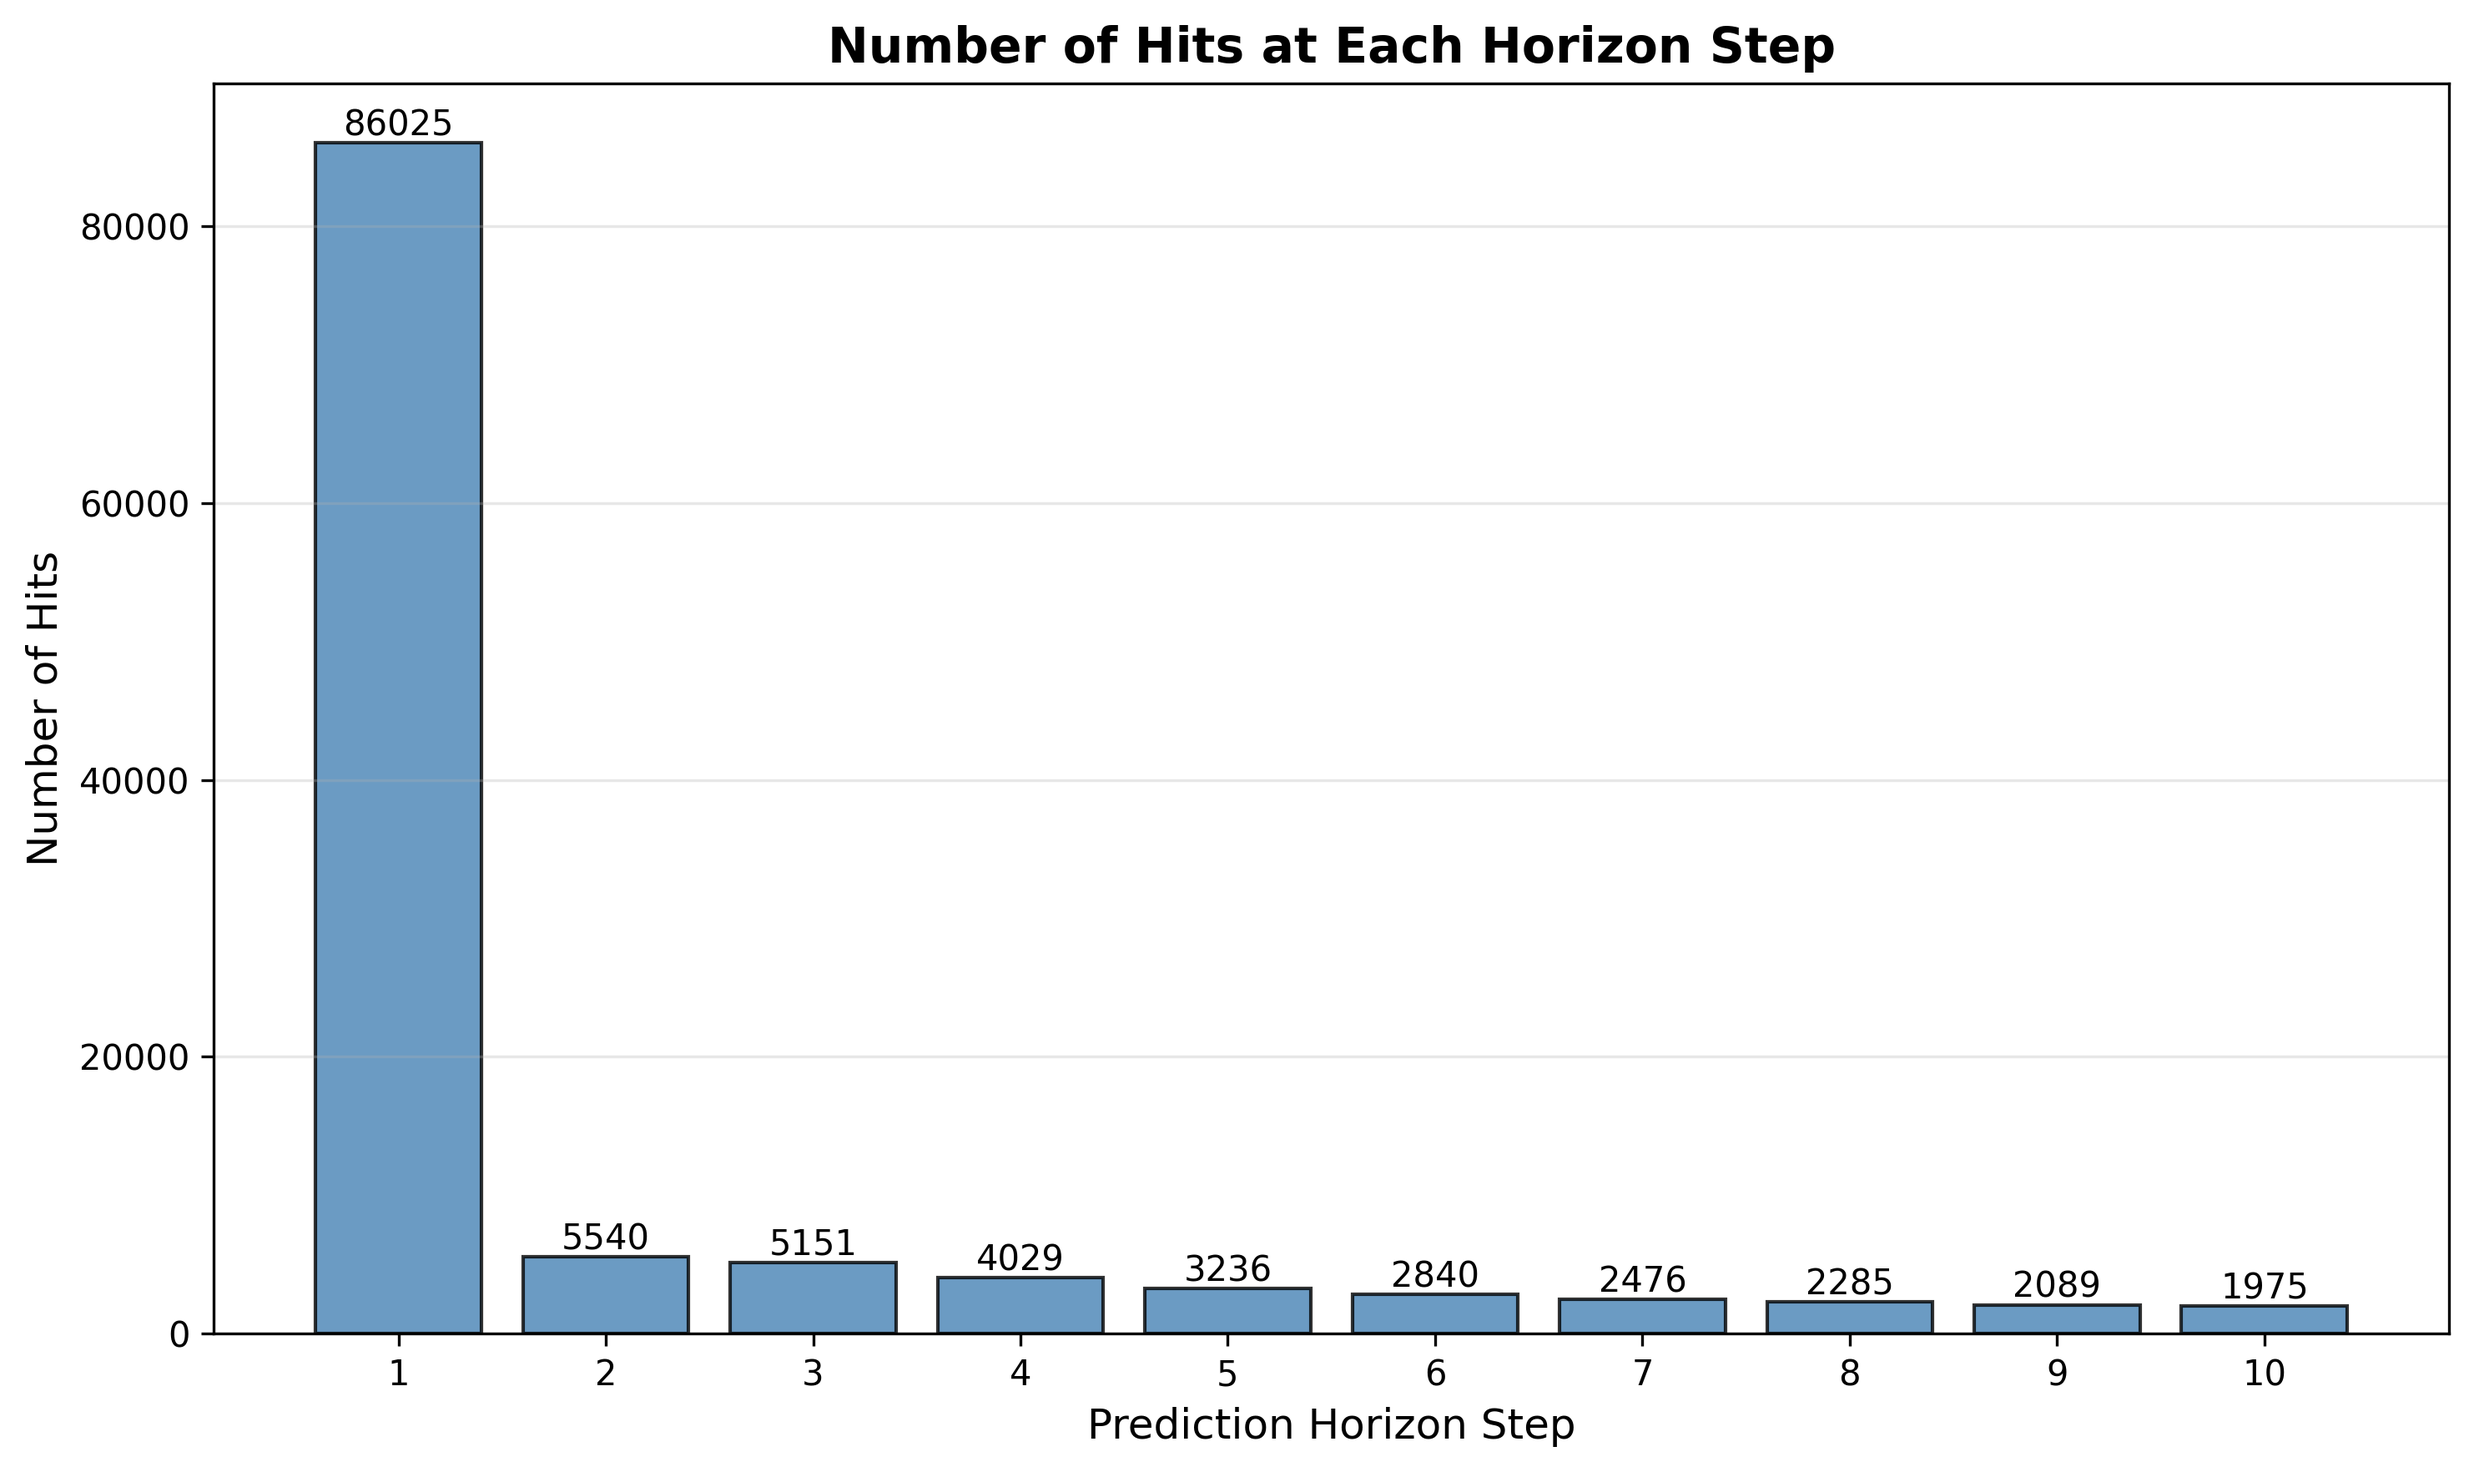
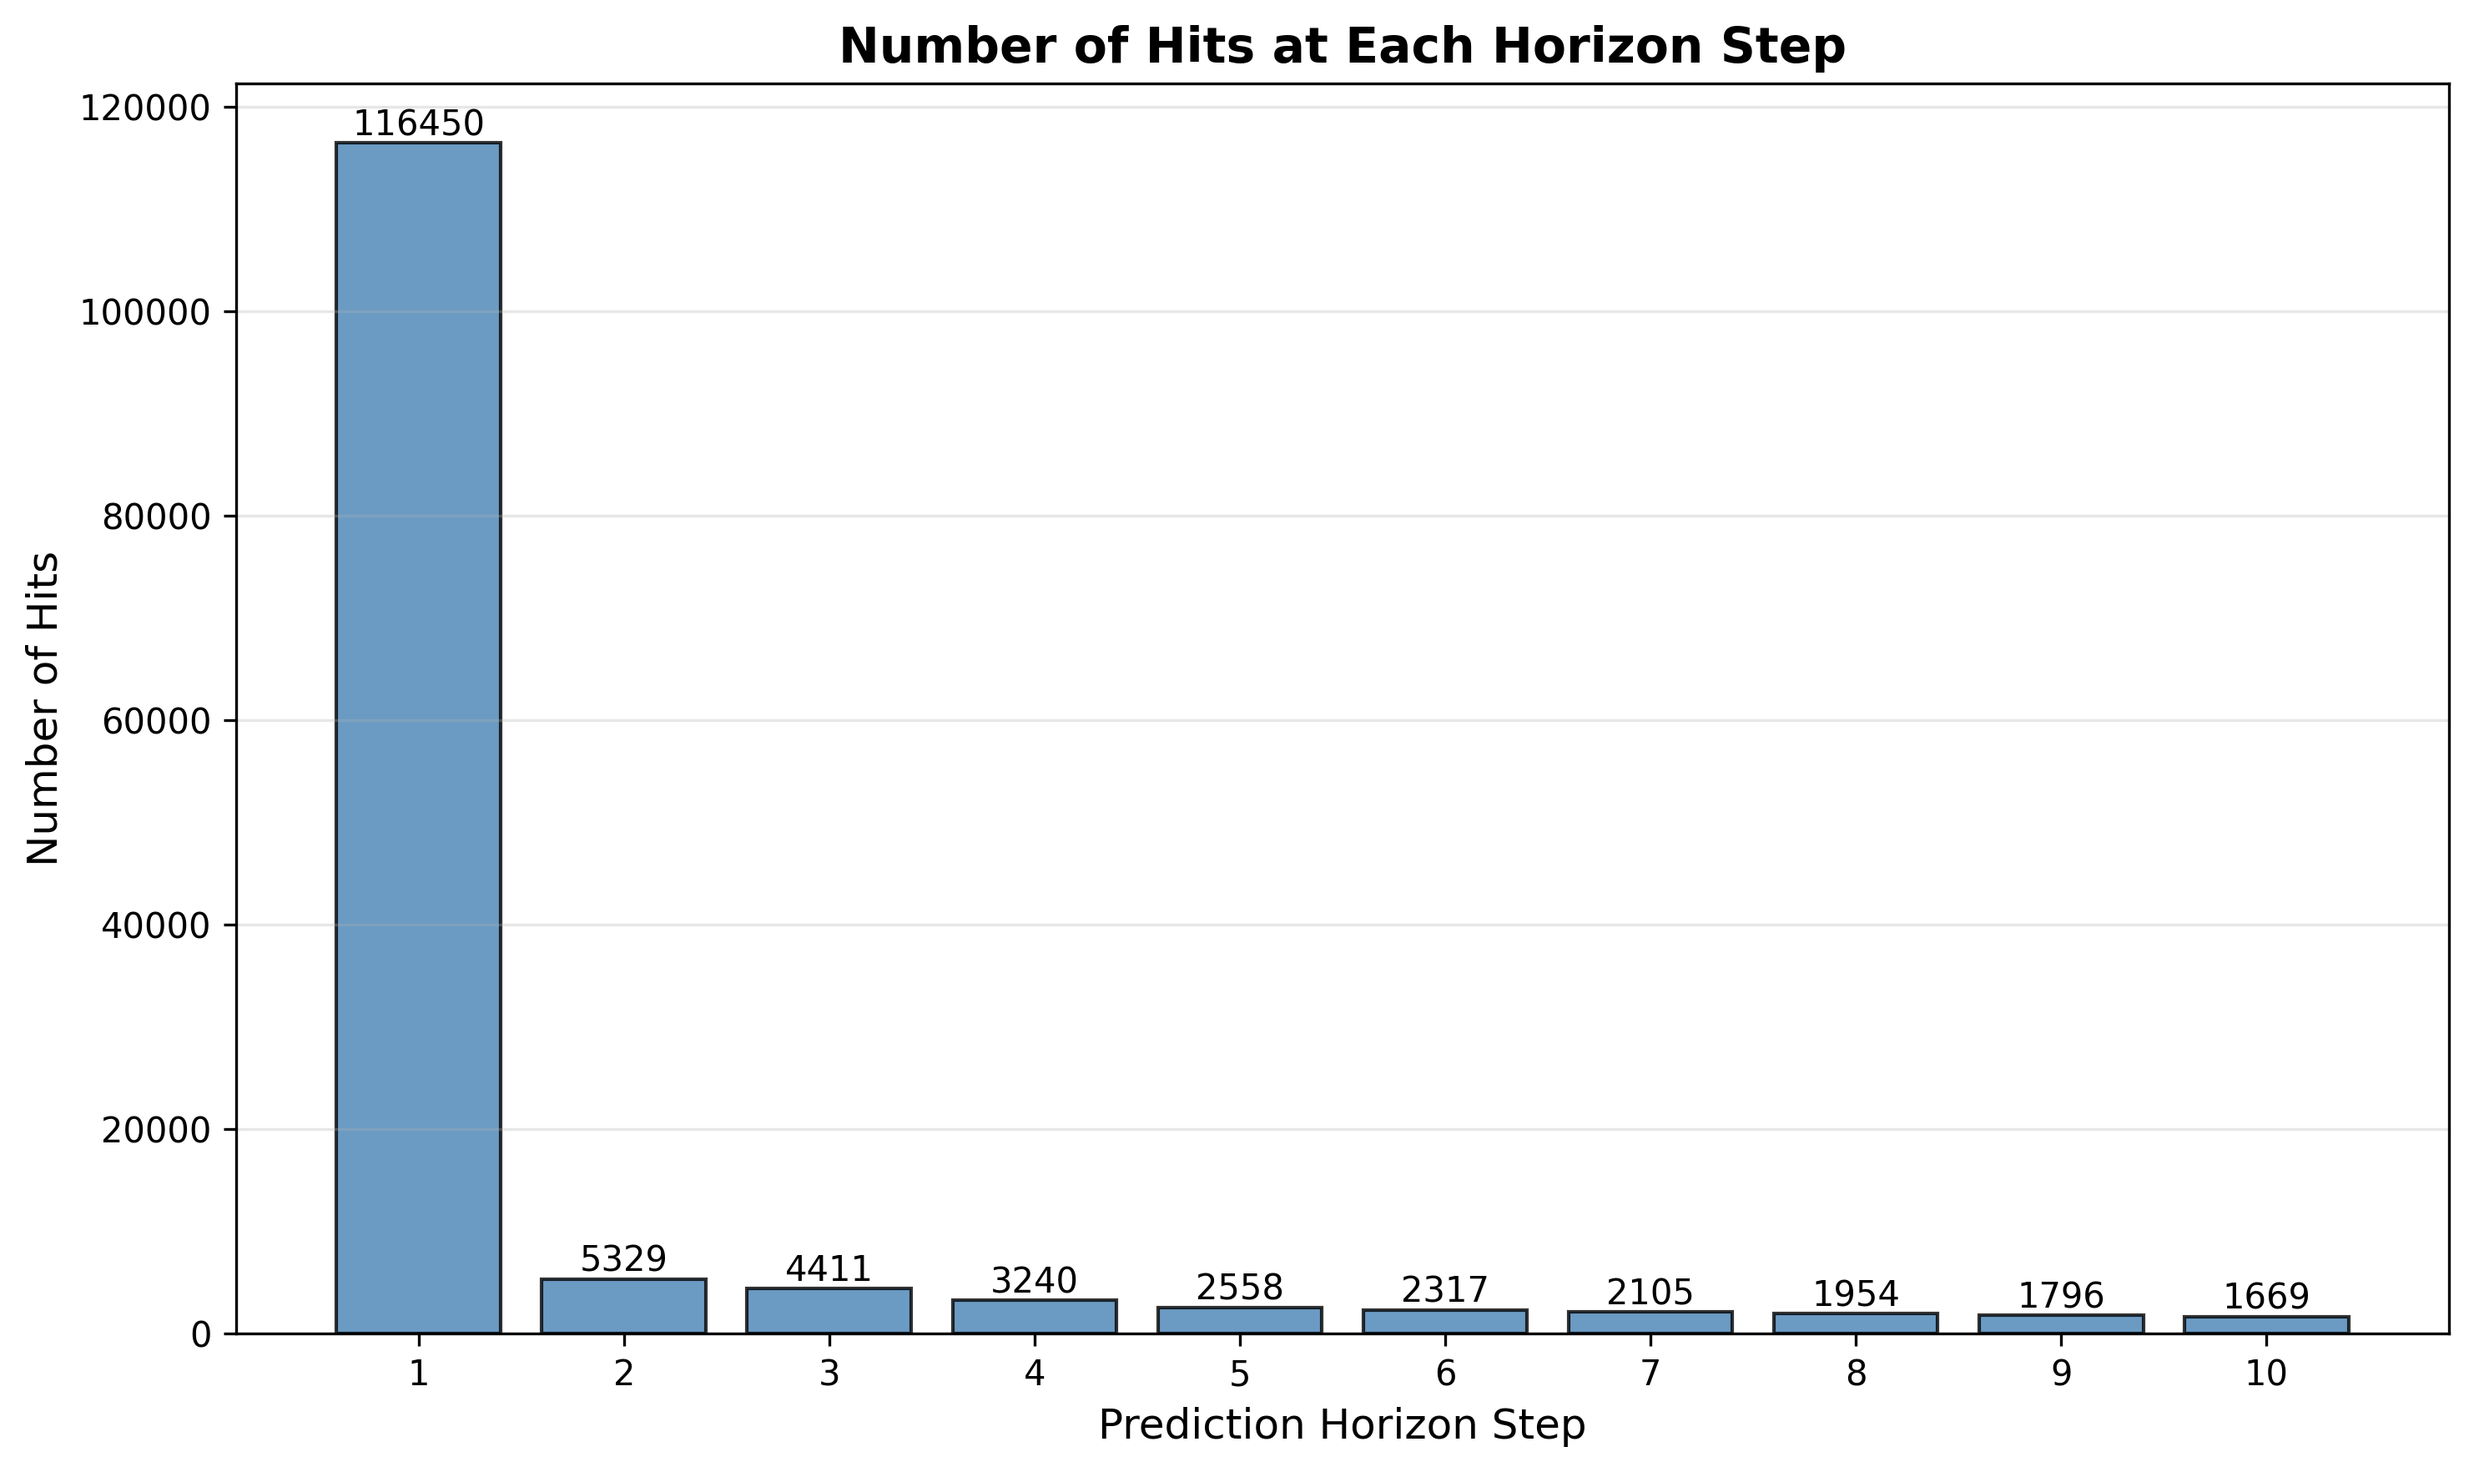
plots after grouping the similar maneuvers together

diff --git a/hdv/hdv_dbn/prediction/apply_gt_labels.py b/hdv/hdv_dbn/prediction/apply_gt_labels.py
@@ -189,6 +189,10 @@ class RuleThresholds:
     """
     # Lane change
     lc_flag_thresh: float = 0.5
+    lateral_velocity_threshold: float = 0.1 # m/s, to confirm actual lateral movement
+    lateral_acceleration_threshold: float = 0.1 # m/s², to confirm active lane change rather than just a small lateral drift
+    lateral_velocity_slope_threshold: float = 0.003 # m/s², to confirm sustained lateral movement over the window rather than a brief swerve
+    ay_zero_frac_threshold: float = 0.5 # at least 50% of the lane change window should have near-zero lateral acceleration, indicating a steady lane change rather than a quick swerve
 
     # Sustained braking
     brake_ax_neg_frac: float = 0.90 # almost the whole window is braking
@@ -304,13 +308,29 @@ def label_one_window_z(obs_t, feature_cols, thr: RuleThresholds, A=4, debug=Fals
                 "lc_right_present": safe("lc_right_present"),
                 "front_thw_last": safe("front_thw_last"),
                 "front_ttc_min": safe("front_ttc_min"),
+                "ay_zero_frac": safe("ay_zero_frac"),
+                "vy_last": safe("vy_last"),
+                "ay_last": safe("ay_last"),
+                "vy_slope": safe("vy_slope"),
             }
         return values
 
     # Lane change
     lc_l = _get(obs_t, idx, "lc_left_present")
     lc_r = _get(obs_t, idx, "lc_right_present")
-    if (lc_l > thr.lc_flag_thresh) or (lc_r > thr.lc_flag_thresh):
+    vy_last = _get(obs_t, idx, "vy_last") if "vy_last" in idx else None
+    ay_last = _get(obs_t, idx, "ay_last") if "ay_last" in idx else None
+    vy_slope = _get(obs_t, idx, "vy_slope") if "vy_slope" in idx else None
+    ay_zero_frac = _get(obs_t, idx, "ay_zero_frac") if "ay_zero_frac" in idx else None
+
+    lc_basic = (lc_l > thr.lc_flag_thresh) or (lc_r > thr.lc_flag_thresh)
+    lc_composite = (
+        (vy_last is not None and abs(vy_last) >= getattr(thr, 'lateral_velocity_threshold', 0.1)) and
+        (ay_last is not None and abs(ay_last) >= getattr(thr, 'lateral_acceleration_threshold', 0.1)) and
+        (vy_slope is not None and abs(vy_slope) >= getattr(thr, 'lateral_velocity_slope_threshold', 0.003)) and
+        (ay_zero_frac is not None and ay_zero_frac <= getattr(thr, 'ay_zero_frac_threshold', 0.5))
+    )
+    if lc_basic or lc_composite:
         z = sa_to_z(1, 1, A)
         if debug:
             vals = record()
@@ -630,13 +650,18 @@ def main():
                 round(v.get("front_ttc_min", np.nan), 2),
                 round(v.get("lc_left_present", np.nan), 2),
                 round(v.get("lc_right_present", np.nan), 2),
+                round(v.get("ay_zero_frac", np.nan), 2),
+                round(v.get("vy_last", np.nan), 2),
+                round(v.get("ay_last", np.nan), 2),
+                round(v.get("vy_slope", np.nan), 4),    
             ])
 
         headers = [
             "t", "z", "s", "a", "semantic",
             "ax_last", "vx_last", "vx_slope",
             "ax_neg", "ax_pos", "front", "jerk_p95",
-            "THW", "TTC", "lc_L", "lc_R",
+            "THW", "TTC", "lc_L", "lc_R", "ay_zero_frac",
+            "vy_last", "ay_last", "vy_slope",
         ]
 
         print("\n" + "=" * 120)
@@ -647,10 +672,10 @@ def main():
             rows,
             headers=headers,
             tablefmt="simple",
-            floatfmt=("", "", "", "", "", ".2f", ".2f", ".4f", ".2f", ".2f", ".2f", ".2f", ".2f", ".2f", ".2f", ".2f"),
+            floatfmt=("", "", "", "", "", ".2f", ".2f", ".4f", ".2f", ".2f", ".2f", ".2f", ".2f", ".2f",".2f", ".2f", ".2f", ".2f", ".2f", ".4f"),
             stralign="left",
             numalign="right",
-            maxcolwidths=[None, None, None, None, 45, None, None, None, None, None, None, None, None, None, None, None],
+            maxcolwidths=[None, None, None, None, 45, None, None, None, None, None, None, None, None, None, None, None, None, None, None, None],
             disable_numparse=True,
         ))
 

diff --git a/hdv/hdv_dbn/prediction/validate.py b/hdv/hdv_dbn/prediction/validate.py
@@ -143,18 +143,36 @@ class ValidationStep:
             # Ground truth is taken at t+1
             true_z = tuple(traj.latents_gt[t + 1])  
             
-            # 5. Compute Hit@H and TTE
-            # Look for match in horizon [t+1, ..., t+H]
-            horizon_latents = traj.latents_gt[t+1:t+1+self.config.horizon]  # (≤H, 2); Slices the future GT labels from t+1 inclusive, up to t+H (exclusive end index).
-            
+            # 5. Compute Hit@H and TTE with maneuver group mapping
+            horizon_latents = traj.latents_gt[t+1:t+1+self.config.horizon]  # (≤H, 2)
+            # Define maneuver groups
+            MANEUVER_GROUPS = {
+                (0, 1): 'brake',
+                (1, 4): 'brake',
+                (0, 2): 'acceleration',
+                (1, 0): 'acceleration',
+                (0, 3): 'following',
+                (1, 2): 'following',
+            }
+            def get_maneuver_group(style, action):
+                return MANEUVER_GROUPS.get((style, action), None)
+
             hit_h = False
             tte_steps = None
+            pred_group = get_maneuver_group(s_hat, a_hat)
             for h, lat_h in enumerate(horizon_latents, start=1):  # 1-indexed
-                if tuple(lat_h) == pred_z:
+                gt_style, gt_action = lat_h
+                # Exact match
+                if (gt_style, gt_action) == pred_z:
                     hit_h = True
                     tte_steps = h
-                    break # Break at first match (so TTE is the earliest time-to-hit).
-            
+                    break
+                # Group match
+                gt_group = get_maneuver_group(gt_style, gt_action)
+                if pred_group is not None and gt_group is not None and pred_group == gt_group:
+                    hit_h = True
+                    tte_steps = h
+                    break
             predictions.append((pred_z, true_z, hit_h, tte_steps))
         
         return predictions

diff --git a/hdv/hdv_dbn/prediction/visualize_metrics.py b/hdv/hdv_dbn/prediction/visualize_metrics.py
@@ -243,6 +243,10 @@ def visualize_all_metrics(*, predictions, metrics, output_dir, S, A, labels, fps
     # --- Filter predictions for other plots (exclude unknowns) ---
     filtered_predictions = [p for p in predictions if -1 not in p[0] and -1 not in p[1]]
 
+    fig = plot_cumulative_hit_rate(filtered_predictions, fps=fps, stride_frames=stride_frames, output_path=output_dir / "cumulative_hit_rate.png")
+    if fig:
+        figs['cumulative_hit_rate'] = fig   
+
     # Plot 2: TTE histogram
     fig = plot_time_to_hit_histogram(filtered_predictions, fps=fps, stride_frames=stride_frames, output_path=output_dir / "tte_histogram.png")
     if fig:
